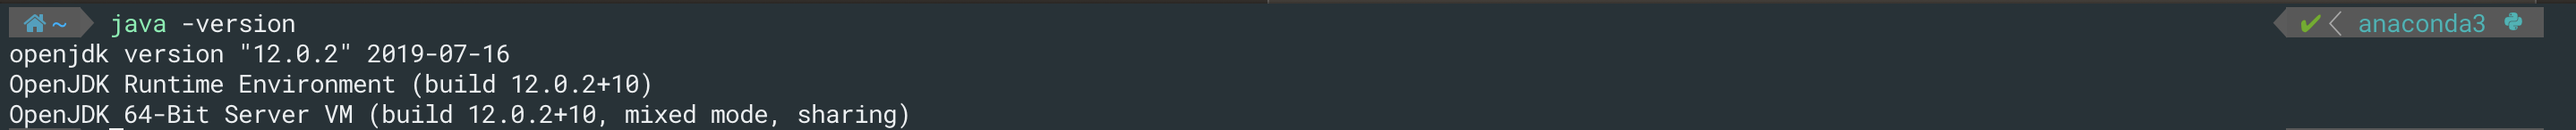
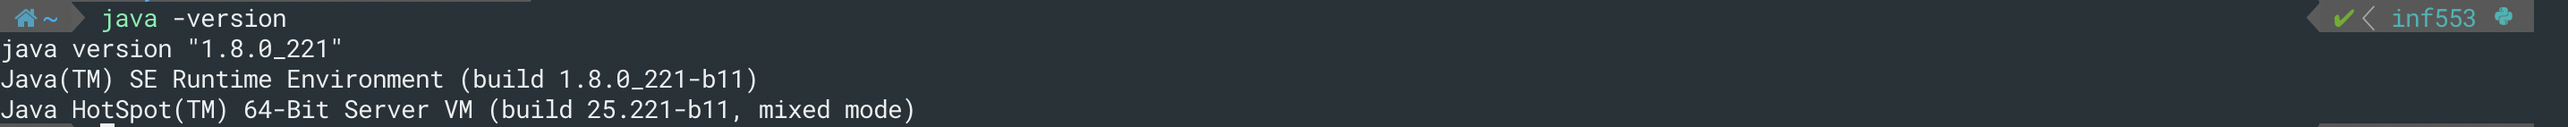
finish install tutorial

diff --git a/Homework/Assignment1/src/siqi_liang_task1.py b/Homework/Assignment1/src/siqi_liang_task1.py
@@ -6,3 +6,4 @@
 # @File    : siqi_liang_task1.py
 # @Software: PyCharm
 
+import pyspark as ps

diff --git a/README.md b/README.md
@@ -32,22 +32,12 @@ Before installing, make sure you have [Anaconda](https://www.anaconda.com/distri
 
 #### Install Java JDK
 
-Here, I use ``brew`` to install Java JDK, in terminal:
+Download Java JDK from the [link](https://www.oracle.com/technetwork/java/javase/downloads/jdk8-downloads-2133151.html), and open the ``dmg`` file to install it.
+
+Then add the ``JAVA_HOME`` in ``~/.zshrc`` file (if using bash, just add this to ``~/.bash_profile`` file):
 
 ```bash
-brew cask install java
-```
-
-When finished, you can see the download location, mine is
-
-![javainstall](./Note/pic/javainstall.png)
-
-that is, ``/Library/Java/JavaVirtualMachines/openjdk-12.0.2.jdk``.
-
-Then add the ``JAVA_HOME`` in ``.zshrc`` file (if using bash, just add this to ``.bash_profile`` file):
-
-```bash
-export JAVA_HOME="/Library/Java/JavaVirtualMachines/openjdk-12.0.2.jdk/Contents/Home"
+export JAVA_HOME="/Library/Java/JavaVirtualMachines/jdk1.8.0_221.jdk/Contents/Home"
 ```
 
 save the changes and activate the change in the terminal:
@@ -72,15 +62,54 @@ java -version
 
 Mine is![javaversion](./Note/pic/javaversion.png)
 
+
+
+> I used to try to install Java via ``brew``:
+>
+> ```bash
+> brew cask install java
+> ```
+>
+> which install Java 12. __However__, it seemed there's some problem with Java 12 and Spark 2.3.3, so I finally used Java 8 JDK ([this problem was mentioned here](https://towardsdatascience.com/how-to-get-started-with-pyspark-1adc142456ec)).
+
+
+
 #### Install Spark
 
 Open the [download link](https://archive.apache.org/dist/spark/spark-2.3.3/) and choose the version you want. Here I chose ``spark-2.3.3-bin-hadoop2.7.tgz``.
 
+When download finished, unzip it and move it to your ``/opt`` folder:
+
+```bash
+tar -xzf spark-2.3.3-bin-hadoop2.7.tgz
+mv spark-2.3.3-bin-hadoop2.7 /opt/spark-2.3.3
+```
+
+Create a symbolic link (assuming you have multiple spark versions):
+
+```bash
+sudo ln -s /opt/spark-2.3.3 /opt/spark
+```
+
+Then add Spark path in the ``~/.zshrc`` or ``~/.bash_profile`` file and activate it:
+
+```bash
+export SPARK_HOME="/opt/spark"
+export PATH="$SPARK_HOME/bin:$PATH"
+```
+
+Now, run the example to see whether install successfully:
+
+```bash
+cd /opt/spark/bin
+run-example SparkPi 10
+```
+
+My result:![sparkexample](./Note/pic/sparkexample.png)
 
 
 
-
-#### Install Pyspark in cond environment
+#### Install Pyspark in conda environment
 
 Create new conda environment:
 
@@ -98,6 +127,43 @@ Now install ``Pyspark`` using ``conda``:
 
 ```bash
 conda install -c conda-forge pyspark
+```
+
+
+
+Add these codes to ``~/.zshrc`` or ``~/.bash_profile`` file to enable python/ipython from conda environment to use PySpark:
+
+```bash
+export PYSPARK_PYTHON="/anaconda3/envs/inf553/bin/python"
+export PYSPARK_DRIVER_PYTHON="/anaconda3/envs/inf553/bin/ipython"
+```
+
+Then activate the changes:
+
+```bash
+source ~/.zshrc
+```
+
+or
+
+```bash
+source ~/.bash_profile
+```
+
+
+
+#### Install Scala
+
+Download, then run:
+
+```bash
+sudo cp -R scala-2.11.12.tgz /usr/local/scala
+```
+
+Add code to ``~/.zshrc`` or ``~/.bash_profile``:
+
+```bash
+export PATH="/usr/local/scala/bin:$PATH"
 ```
 
 
